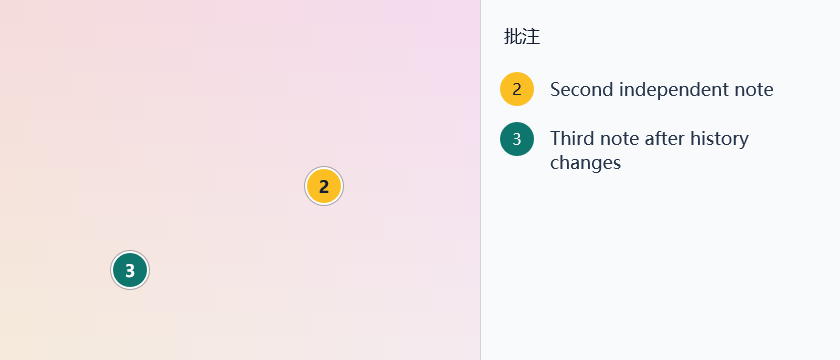
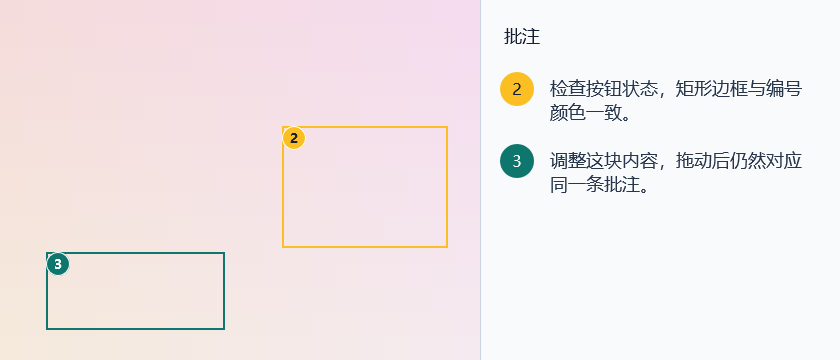
docs: record v0.0.2 Windows validation and region preview

diff --git a/docs/VALIDATION.md b/docs/VALIDATION.md
@@ -4,24 +4,27 @@
 
 v0.0.2 增加矩形范围批注的纯几何回归及真实 GUI 场景。纯 C++ 标注、区域、历史、图像与工具栏布局回归可以在 Linux 或 Windows 运行。Windows Release/Debug、原生渲染 PNG、启动、打包与发布结果，以对应提交的 [GitHub Actions 记录](https://github.com/NAMEWTA/ScreenCapture-Plus/actions)为准。
 
-### v0.0.1 验证基线
+### v0.0.2 范围批注
 
-**2026-11-24：功能提交 `cea6f91608ff5cb99ee28b08ada79faa960c03a7` 的 [PR Windows CI（run 45319371553）](https://github.com/NAMEWTA/ScreenCapture-Plus/actions/runs/45319371553) 全部通过。** 下列记录来自本轮批注功能构建；未执行的人工桌面项目仍按下文保留。
+**2026-11-24：功能提交 `dbc1f0794a7d49b7669629fedabaa7428fea4414` 的 [PR Windows CI（run 45326301187）](https://github.com/NAMEWTA/ScreenCapture-Plus/actions/runs/45326301187) 全部通过。** 下列是实际观察结果，不包含未执行的人工桌面场景。
 
 | 环境 / 检查 | 已观察结果 |
 | --- | --- |
-| Linux C++20 / GCC | 7 个核心程序严格编译并通过，包含批注身份/颜色/布局、侧栏和工具栏几何 |
+| Linux C++20 / GCC | 8 个核心程序严格编译并通过；新几何测试包含非整数缩放下最小框跨原点/远端往返 |
 | GitHub `windows-2025` x64 / MSVC v145 | Release 与 Debug 均成功 |
-| Windows 核心与脚本 | 7 个核心程序通过；PowerShell 脚本语法有效 |
-| D3D11 WARP / DWrite / D2D / WIC | 六组 PNG 生成与回读通过，完整文字、原图像素/alpha、边界与上下文恢复通过 |
-| 独立 EXE / 便携配置 | 隔离目录托盘启动通过，未依赖应用外置 DLL 或 MSVC 运行库 |
-| 真实 GUI，1024×768，96 DPI | 独立备注输入、列表编辑/删除、撤销/重做、编辑后新增、边缘拖动均通过；放置后输入框保持焦点 |
-| 正式复制命令 | 从系统剪贴板读取并解码 840×360 PNG，原图和完整批注栏同时存在 |
-| 发布包 | EXE 版本 0.0.1.0、PE 依赖、便携包、符号、构建信息与 SHA256 文件检查通过 |
+| Windows 核心与脚本 | 8 个核心程序通过；PowerShell 构建及发布脚本语法有效 |
+| D3D11 WARP / DWrite / D2D / WIC | 六组 PNG 生成与回读通过，完整文字、原图像素/alpha、边界及上下文恢复通过 |
+| 独立 EXE / 便携配置 | 隔离目录托盘启动通过 |
+| 真实 GUI，1024×768，96 DPI | 正/反方向拖框、小编号左上角定位、完成后焦点输入、列表编辑/删除、撤销/重做均通过 |
+| 区域拖动与恢复 | 调整大小、四边保尺寸限制、收起侧栏后的边缘拖动、捕获中断恢复、单击/零面积/1px 误拖清理通过 |
+| 正式复制命令 | 从系统剪贴板读取并解码 840×360 PNG；矩形、图内小编号和右侧编号同色，矩形内部没有填色 |
+| 发布包 | EXE 版本 0.0.2.0、PE 依赖、便携包、符号、构建信息与 SHA256 文件检查通过 |
 
-`windows-render-checks` 工件保留原生渲染、真实窗口截图及 GUI 日志。README 配图来自正式复制命令的原始 PNG。最终 main 构建与 Release 仍由各自的工作流重新验证，发布状态以 [v0.0.1 Release](https://github.com/NAMEWTA/ScreenCapture-Plus/releases/tag/v0.0.1) 为准。
+[本次 `windows-render-checks` 工件](https://github.com/NAMEWTA/ScreenCapture-Plus/actions/runs/45326301187/artifacts/14889309241) 保留原生渲染、真实窗口截图及 GUI 日志。README 配图直接使用正式复制命令取得的原始 PNG；已检查矩形范围、小编号及说明布局。最终 main 会重新执行同一套验证，正式资产以 [v0.0.2 Release](https://github.com/NAMEWTA/ScreenCapture-Plus/releases/tag/v0.0.2) 为准。
 
-本轮 GUI 回归同时验证了两个修复：被动工具栏重排不再激活工具窗口，鼠标离开哨兵不再被解释为批注拖动。
+### v0.0.1 验证基线
+
+上一版的 [PR Windows CI（run 45319371553）](https://github.com/NAMEWTA/ScreenCapture-Plus/actions/runs/45319371553) 与 [main 构建/发布（run 45320766814）](https://github.com/NAMEWTA/ScreenCapture-Plus/actions/runs/45320766814) 已通过 7 个核心程序、Release/Debug、六组原生渲染、托盘启动、点击式批注 GUI 与打包。该版同时修复了被动工具栏重排抢焦点及鼠标离开哨兵被误当拖动的问题。历史结果对应 [v0.0.1](https://github.com/NAMEWTA/ScreenCapture-Plus/releases/tag/v0.0.1)，当前新增范围批注按上表单独验证。
 
 ## 自动化覆盖
 

diff --git a/docs/ANNOTATIONS.md b/docs/ANNOTATIONS.md
@@ -18,7 +18,7 @@
 
 右侧是钉图窗口的一部分，不是额外的系统窗口。首次打开时可以缩小截图视图以腾出空间；这只改变显示比例。新编号的半径、字号和 2 逻辑像素边框按创建时的 `dpi / scale` 转成原图坐标，避免大图缩小后标记变得难以看见。之后这些几何量保持在原图坐标中，后续缩放和导出都使用同一个对象。矩形不填色，不会盖住需要说明的截图内容。
 
-矩形可向任意方向拖出，按实际范围归一化。新框的宽、高各至少 3 逻辑像素才保留，单击、水平线、垂直线和更小的误拖不会留下空批注。点击编号或边框选中说明；拖动编号或边框移动整个范围，拖动八个边角控制点调整范围。区域几何限制在原图内，移动时保留尺寸；编号内锚在左上角并限制在图像边界内。小于徽章的区域仍保留真实矩形范围，徽章可以超出该区域，但不会以扩大范围冒充选区。
+矩形可向任意方向拖出，按实际范围归一化。新框的宽、高各至少 3 逻辑像素才保留（转换为原图像素后向上取整，避免缩放后最小框移动失效），单击、水平线、垂直线和更小的误拖不会留下空批注。点击编号或边框选中说明；拖动编号或边框移动整个范围，拖动八个边角控制点调整范围。区域几何限制在原图内，移动时保留尺寸；编号内锚在左上角并限制在图像边界内。小于徽章的区域仍保留真实矩形范围，徽章可以超出该区域，但不会以扩大范围冒充选区。
 
 矩形的空白内部不命中当前批注，便于继续绘制其他图形或嵌套范围；编号、边框与控制点仍优先用于操作已有区域。普通矩形和普通序号的行为不受影响。
 

diff --git a/README.md b/README.md
@@ -2,7 +2,7 @@
 
 ![ScreenCapture-Plus](docs/banner.png)
 
-正式批注工具实际复制得到的合成 PNG（GUI 自动化验证示例；删除 #1 后保留 #2、#3 的编号与配色）。
+v0.0.2 范围批注工具实际复制得到的合成 PNG（GUI 自动化验证示例；删除 #1 后保留 #2、#3 的编号与配色）。
 
 # ScreenCapture-Plus
 
